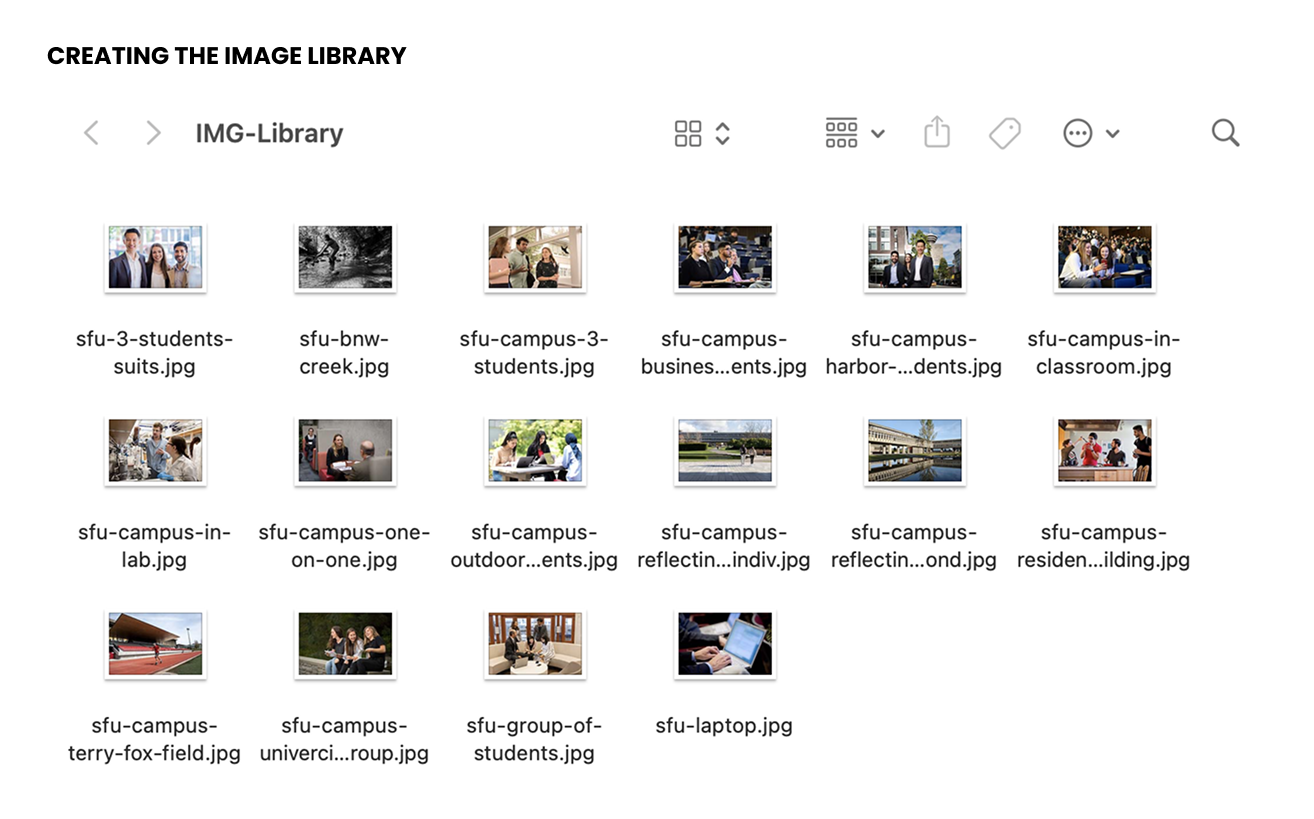
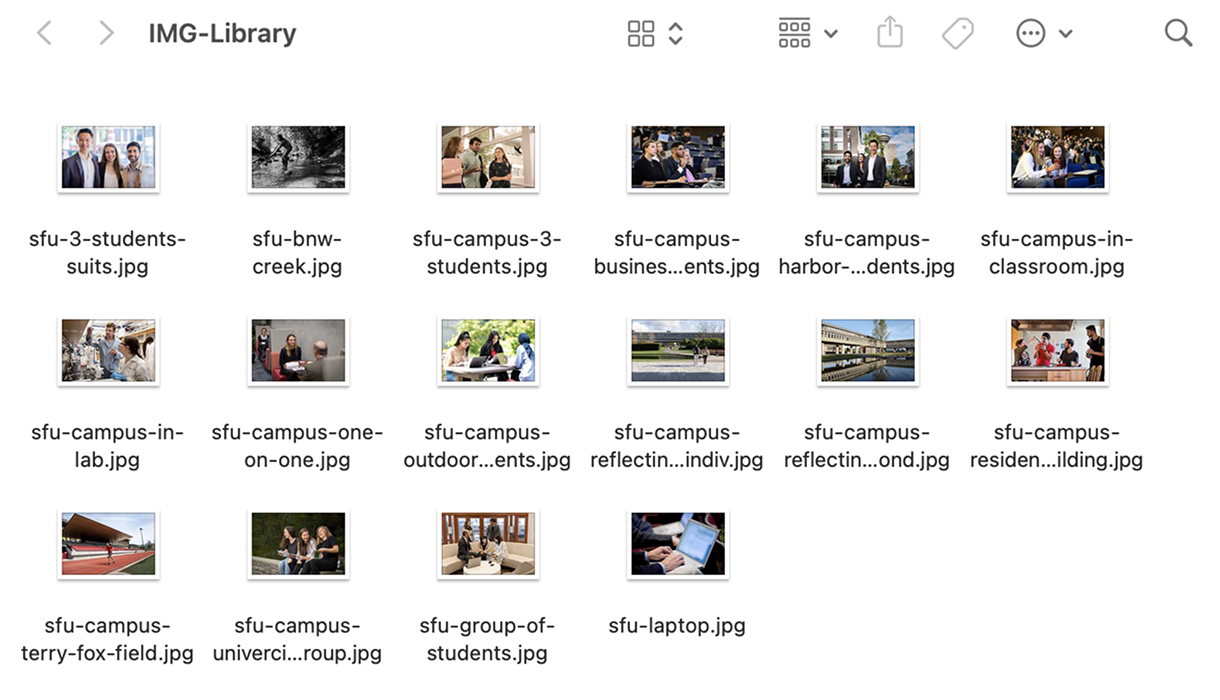
replaced image

diff --git a/main/graphic_designer2.html b/main/graphic_designer2.html
@@ -230,15 +230,17 @@
             <h3>Image Library</h3>
             <div class="image-heading-smaller">
                 <img src="https://ariellebeltran.github.io/portfolio/main/images/sfu-image-library.png"
-                    alt="Chosen SFU image library in a folder." width="100%" height="auto">
+                    alt="Chosen SFU image library in a folder." width="50%" height="auto">
                 <figcaption>Screenshot of images collected from the SFU Image Library.</figcaption>
             </div>
 
-            <h3>Advisor Link Banner Creation Process</h3>
-            <div class="image-heading-smaller">
+            <h3>Advisor Link Banner</h3>
+            <div class="side-scroll-container">
+                <div class="image-heading-smaller">
                 <img src="https://ariellebeltran.github.io/portfolio/main/images/sfu-al-banner-progression.png"
                         alt="SFU banner progression." width="100%" height="auto">
                 <figcaption>Breaking down the process of making banners.</figcaption>
+            </div>
             </div>
 
             <br>

diff --git a/main/style.css b/main/style.css
@@ -462,6 +462,12 @@ ol {
     /* ie8 */
 }
 
+.side-scroll-container {
+    width: 100%;
+    height: 400px;
+    overflow: auto;
+}
+
 .slideshow-container {
     max-width: 1000px;
     position: relative;
